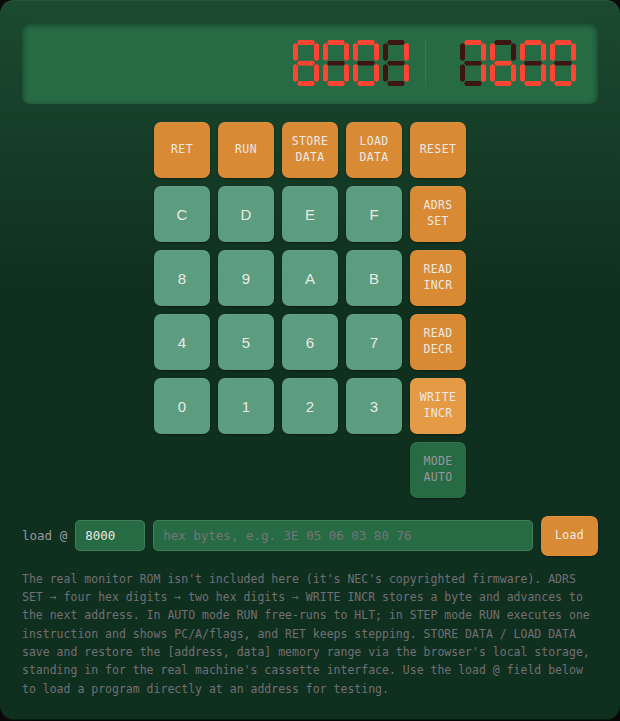
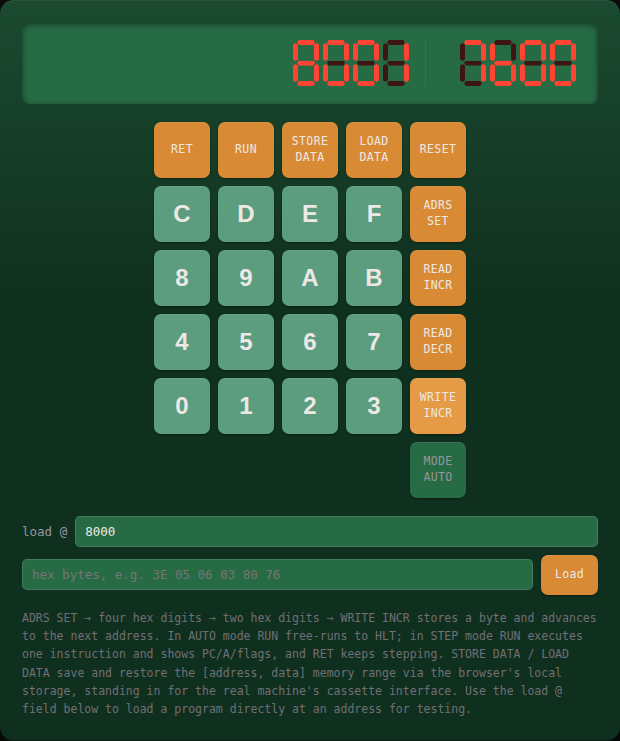
Fix loader overflow, dedupe ROM copy, match manual to panel, bolder hex keys
Four follow-ups from checking the layout on a phone-width viewport:

- The load @ row (label, address field, hex-byte field, Load button) was
  one flex row, which overflowed on narrow screens with the Load button
  clipped off the right edge. Split it into two rows: "load @" + the
  address field above, the hex-byte field + Load button below.
- The monitor-ROM disclaimer was duplicated - once in the hint text
  under the device, once in the operating-instructions card below it.
  Drop it from the hint and keep the one in the instructions card.
- The instructions card used a flat grey background, standing out from
  the green device above it; give both the same panel gradient (now a
  shared --panel-gradient variable) so they read as one board.
  Coordinate the unused --card and --bezel variables out - PCB-green
  backgrounds cover every remaining case now.
- Hex digit keys used plain body-text weight at 15px; bump them to
  24px/700 weight to match the bold engraved digits on the real
  keycaps (the function-key labels are unaffected).

Regenerates docs/screenshot.png to match.

Changed region(s): [[0.0306, 0.0305, 0.9806, 0.9764]]

diff --git a/src/main.ts b/src/main.ts
@@ -151,24 +151,34 @@ const modeBtn = makeFnButton(keygridEl, `MODE ${panel.mode.toUpperCase()}`, () =
 });
 modeBtn.className = "fn mode";
 
+// "load @" sits on its own row above the address field, and the hex-byte field plus
+// Load button share the row below - splitting what used to be one cramped row (which
+// overflowed on narrow/mobile screens) into two that each fit comfortably.
 const loaderEl = document.createElement("div");
 loaderEl.className = "loader";
 caseEl.appendChild(loaderEl);
 
+const addrRowEl = document.createElement("div");
+addrRowEl.className = "loader-row";
+loaderEl.appendChild(addrRowEl);
+
 const loaderLabel = document.createElement("label");
 loaderLabel.textContent = "load @";
-loaderEl.appendChild(loaderLabel);
+addrRowEl.appendChild(loaderLabel);
 
 const loadAddrInput = document.createElement("input");
 loadAddrInput.type = "text";
 loadAddrInput.value = "8000";
-loadAddrInput.style.maxWidth = "70px";
-loaderEl.appendChild(loadAddrInput);
+addrRowEl.appendChild(loadAddrInput);
+
+const bytesRowEl = document.createElement("div");
+bytesRowEl.className = "loader-row";
+loaderEl.appendChild(bytesRowEl);
 
 const loadBytesInput = document.createElement("input");
 loadBytesInput.type = "text";
 loadBytesInput.placeholder = "hex bytes, e.g. 3E 05 06 03 80 76";
-loaderEl.appendChild(loadBytesInput);
+bytesRowEl.appendChild(loadBytesInput);
 
 const loadBtn = document.createElement("button");
 loadBtn.className = "fn";
@@ -185,16 +195,16 @@ loadBtn.addEventListener("click", () => {
   panel.address = addr;
   panel.dataRegister = memory.read8(addr);
 });
-loaderEl.appendChild(loadBtn);
+bytesRowEl.appendChild(loadBtn);
 
 const hintEl = document.createElement("div");
 hintEl.className = "hint";
 hintEl.textContent =
-  "The real monitor ROM isn't included here (it's NEC's copyrighted firmware). ADRS SET → four hex digits → " +
-  "two hex digits → WRITE INCR stores a byte and advances to the next address. In AUTO mode RUN free-runs to HLT; " +
-  "in STEP mode RUN executes one instruction and shows PC/A/flags, and RET keeps stepping. STORE DATA / LOAD DATA " +
-  "save and restore the [address, data] memory range via the browser's local storage, standing in for the real " +
-  "machine's cassette interface. Use the load @ field below to load a program directly at an address for testing.";
+  "ADRS SET → four hex digits → two hex digits → WRITE INCR stores a byte and advances to the next address. " +
+  "In AUTO mode RUN free-runs to HLT; in STEP mode RUN executes one instruction and shows PC/A/flags, and RET " +
+  "keeps stepping. STORE DATA / LOAD DATA save and restore the [address, data] memory range via the browser's " +
+  "local storage, standing in for the real machine's cassette interface. Use the load @ field below to load a " +
+  "program directly at an address for testing.";
 caseEl.appendChild(hintEl);
 
 function render(): void {

diff --git a/src/style.css b/src/style.css
@@ -4,8 +4,7 @@
   --pcb-hi: #1b4a30;
   --pcb-bright: #276b45;
   --pcb-bright-hi: #327d53;
-  --card: #2c2b2d;
-  --bezel: #12100e;
+  --panel-gradient: linear-gradient(180deg, var(--pcb-hi), var(--pcb) 40%);
   --key-size: 56px;
   --ember: #ff4433;
   --ember-dim: #3d1613;
@@ -102,7 +101,7 @@ body {
 }
 
 .case {
-  background: linear-gradient(180deg, var(--pcb-hi), var(--pcb) 40%);
+  background: var(--panel-gradient);
   border-radius: 14px;
   padding: 22px;
   box-shadow:
@@ -263,6 +262,12 @@ button {
   text-align: center;
 }
 
+/* the real keycaps print hex digits large and bold, not a plain body-text weight */
+.keygrid button:not(.fn) {
+  font-size: 24px;
+  font-weight: 700;
+}
+
 @media (prefers-reduced-motion: no-preference) {
   button {
     transition: background 100ms ease, transform 60ms ease;
@@ -293,16 +298,29 @@ button.fn:hover {
   background: var(--fn-key-hi);
 }
 
+/* two rows - "load @" + the address field above, the hex-byte field + Load button
+   below - rather than one row of 4 items, which overflowed on narrow screens. */
 .loader {
   display: flex;
+  flex-direction: column;
   gap: 8px;
-  align-items: center;
   font-family: var(--font-mono);
   font-size: 12.5px;
 }
 
+.loader-row {
+  display: flex;
+  gap: 8px;
+  align-items: center;
+}
+
 .loader label {
   color: var(--slate);
+  white-space: nowrap;
+}
+
+.loader-row:first-child input[type="text"] {
+  width: 90px;
 }
 
 .loader input[type="text"] {
@@ -331,7 +349,7 @@ button.fn:hover {
 /* --- manual: static page chrome around the device --- */
 
 .manual {
-  background: var(--card);
+  background: var(--panel-gradient);
   border-radius: 10px;
   padding: 20px 22px;
   box-shadow: 0 1px 0 rgba(255, 255, 255, 0.05) inset;
